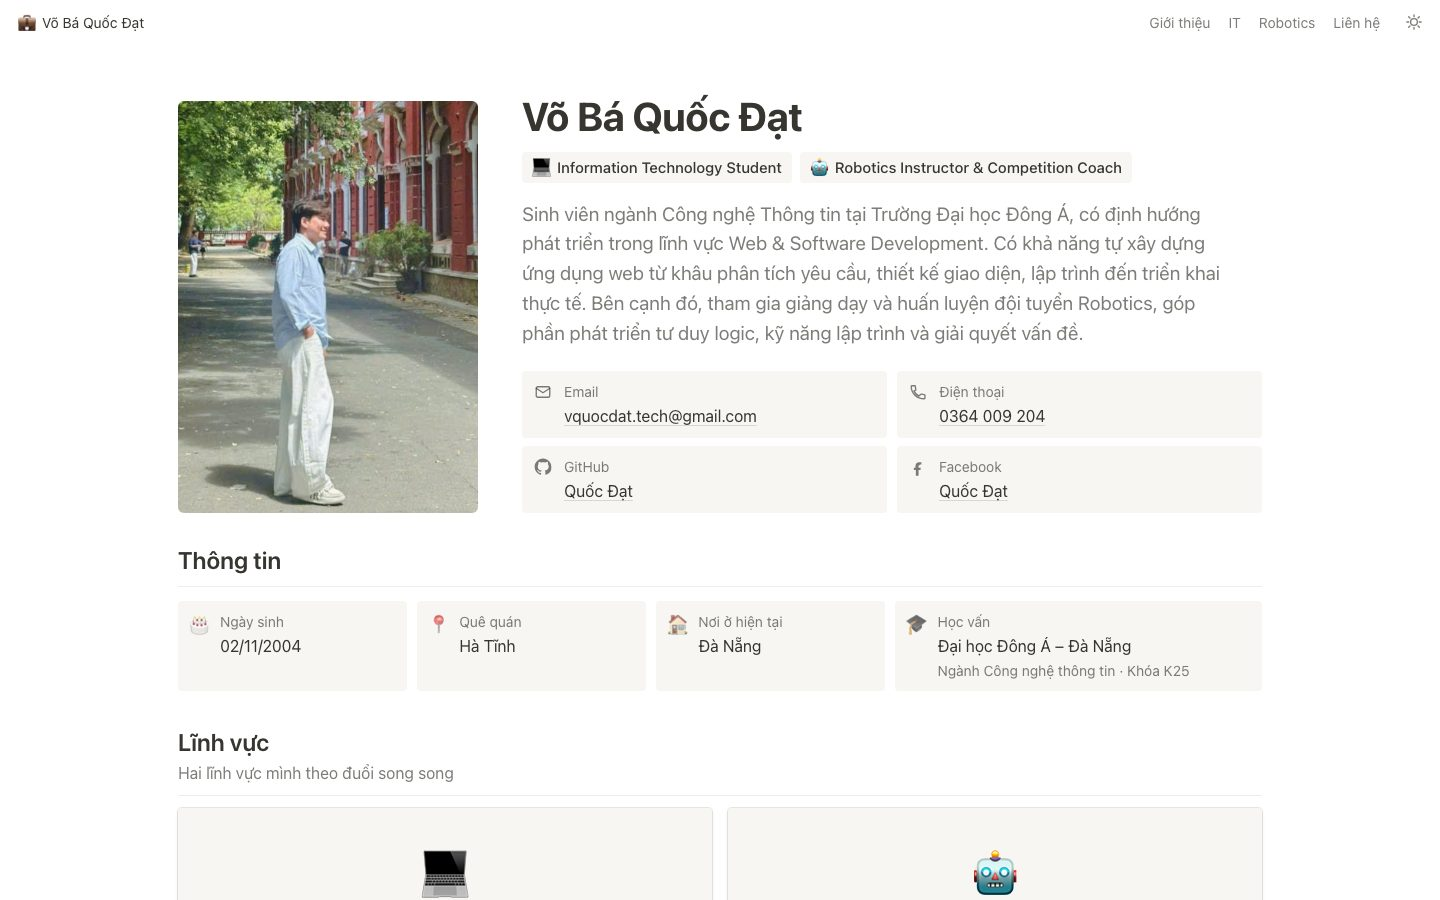
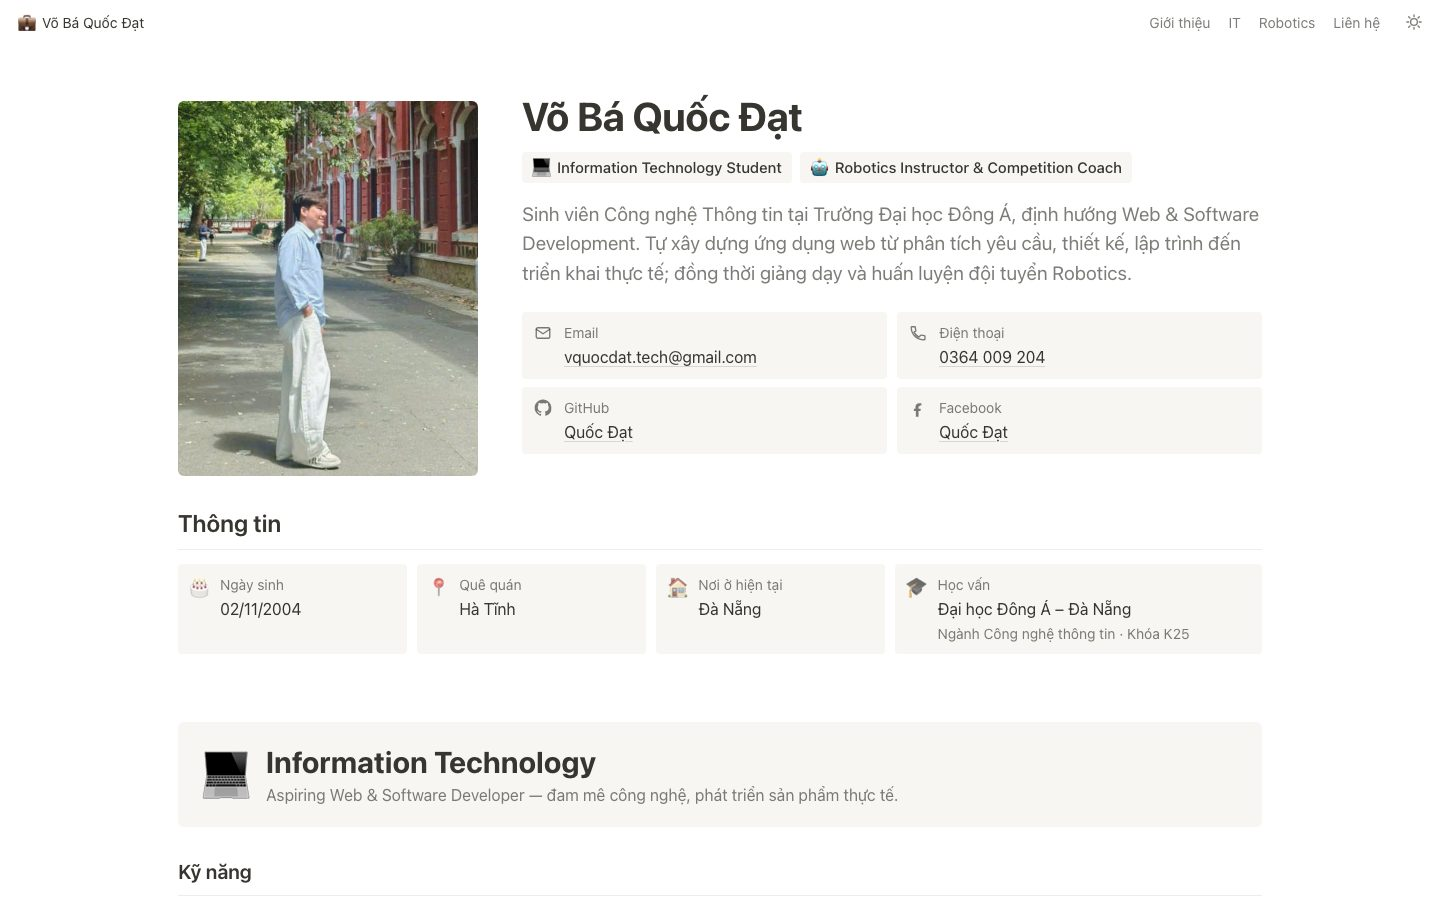
Bỏ phần Lĩnh vực, rút gọn đoạn giới thiệu còn 3 dòng
- Bỏ hai thẻ Lĩnh vực vì trùng với nhãn vai trò và khung tiêu đề IT / Robotics
- Rút gọn đoạn giới thiệu ở đầu trang, cho chữ dùng hết bề ngang cột

diff --git a/src/data.js b/src/data.js
@@ -5,7 +5,7 @@ export const roles = [
 
 // Short intro shown under the name at the top of the page.
 export const headline =
-  "Sinh viên ngành Công nghệ Thông tin tại Trường Đại học Đông Á, có định hướng phát triển trong lĩnh vực Web & Software Development. Có khả năng tự xây dựng ứng dụng web từ khâu phân tích yêu cầu, thiết kế giao diện, lập trình đến triển khai thực tế. Bên cạnh đó, tham gia giảng dạy và huấn luyện đội tuyển Robotics, góp phần phát triển tư duy logic, kỹ năng lập trình và giải quyết vấn đề.";
+  "Sinh viên Công nghệ Thông tin tại Trường Đại học Đông Á, định hướng Web & Software Development. Tự xây dựng ứng dụng web từ phân tích yêu cầu, thiết kế, lập trình đến triển khai thực tế; đồng thời giảng dạy và huấn luyện đội tuyển Robotics.";
 
 export const aboutInfo = [
   { icon: "🎂", label: "Ngày sinh", value: "02/11/2004" },
@@ -15,22 +15,6 @@ export const aboutInfo = [
 
 export const education = [
   { title: "Đại học Đông Á – Đà Nẵng", detail: "Ngành Công nghệ thông tin · Khóa K25" },
-];
-
-// Two fields shown as gallery cards; `target` is the section id each card jumps to.
-export const fields = [
-  {
-    icon: "💻",
-    title: "Information Technology",
-    desc: "Phát triển web và phần mềm: React, Node.js, Django, cơ sở dữ liệu, triển khai Docker và ứng dụng AI.",
-    target: "it",
-  },
-  {
-    icon: "🤖",
-    title: "Robotics & STEM",
-    desc: "Giảng dạy, huấn luyện đội tuyển: lắp ráp, lập trình, điều khiển robot và chiến thuật thi đấu.",
-    target: "robotics",
-  },
 ];
 
 export const itSkills = [

diff --git a/src/components/Profile.jsx b/src/components/Profile.jsx
@@ -1,8 +1,8 @@
 import { Callout, Heading } from "./Blocks.jsx";
 import { ICONS } from "./icons.jsx";
-import { aboutInfo, contacts, education, fields, headline, roles } from "../data.js";
+import { aboutInfo, contacts, education, headline, roles } from "../data.js";
 
-// Page header: portrait beside name, roles, intro and contacts; personal facts and the two fields below.
+// Page header: portrait beside name, roles, intro and contacts; personal facts in one row below.
 export default function Profile() {
   return (
     <>
@@ -51,21 +51,6 @@ export default function Profile() {
             {e.title}
             <span className="n-sub">{e.detail}</span>
           </Callout>
-        ))}
-      </div>
-
-      <Heading hint="Hai lĩnh vực mình theo đuổi song song">Lĩnh vực</Heading>
-      <div className="n-gallery n-gallery-fields">
-        {fields.map((f) => (
-          <a className="n-card n-card-field" key={f.title} href={`#${f.target}`}>
-            <div className="n-card-cover n-card-cover-emoji" aria-hidden="true">
-              {f.icon}
-            </div>
-            <div className="n-card-content">
-              <span className="n-card-title">{f.title}</span>
-              <span className="n-card-text">{f.desc}</span>
-            </div>
-          </a>
         ))}
       </div>
     </>

diff --git a/src/App.css b/src/App.css
@@ -125,7 +125,6 @@
   background: var(--bg-hover);
 }
 .n-headline {
-  max-width: 720px;
   margin: 16px 0 20px;
   font-size: 1.2em;
   line-height: 1.55;
@@ -310,9 +309,6 @@
   gap: 16px;
   margin-top: 12px;
 }
-.n-gallery-fields {
-  grid-template-columns: repeat(2, minmax(0, 1fr));
-}
 .n-gallery-3 {
   grid-template-columns: repeat(auto-fill, minmax(280px, 1fr));
 }
@@ -359,9 +355,6 @@ button.n-card:hover .n-card-cover img {
   display: grid;
   place-items: center;
   font-size: 48px;
-}
-.n-card-field .n-card-cover {
-  aspect-ratio: 4 / 1;
 }
 /* Project name laid over the bottom of a screenshot, on a dark fade so white text stays readable. */
 .n-card-cover-titled {
@@ -685,8 +678,7 @@ button.n-card:hover .n-card-cover img {
   .n-title {
     font-size: 32px;
   }
-  .n-grid-2,
-  .n-gallery-fields {
+  .n-grid-2 {
     grid-template-columns: 1fr;
   }
   .n-peek-backdrop {
